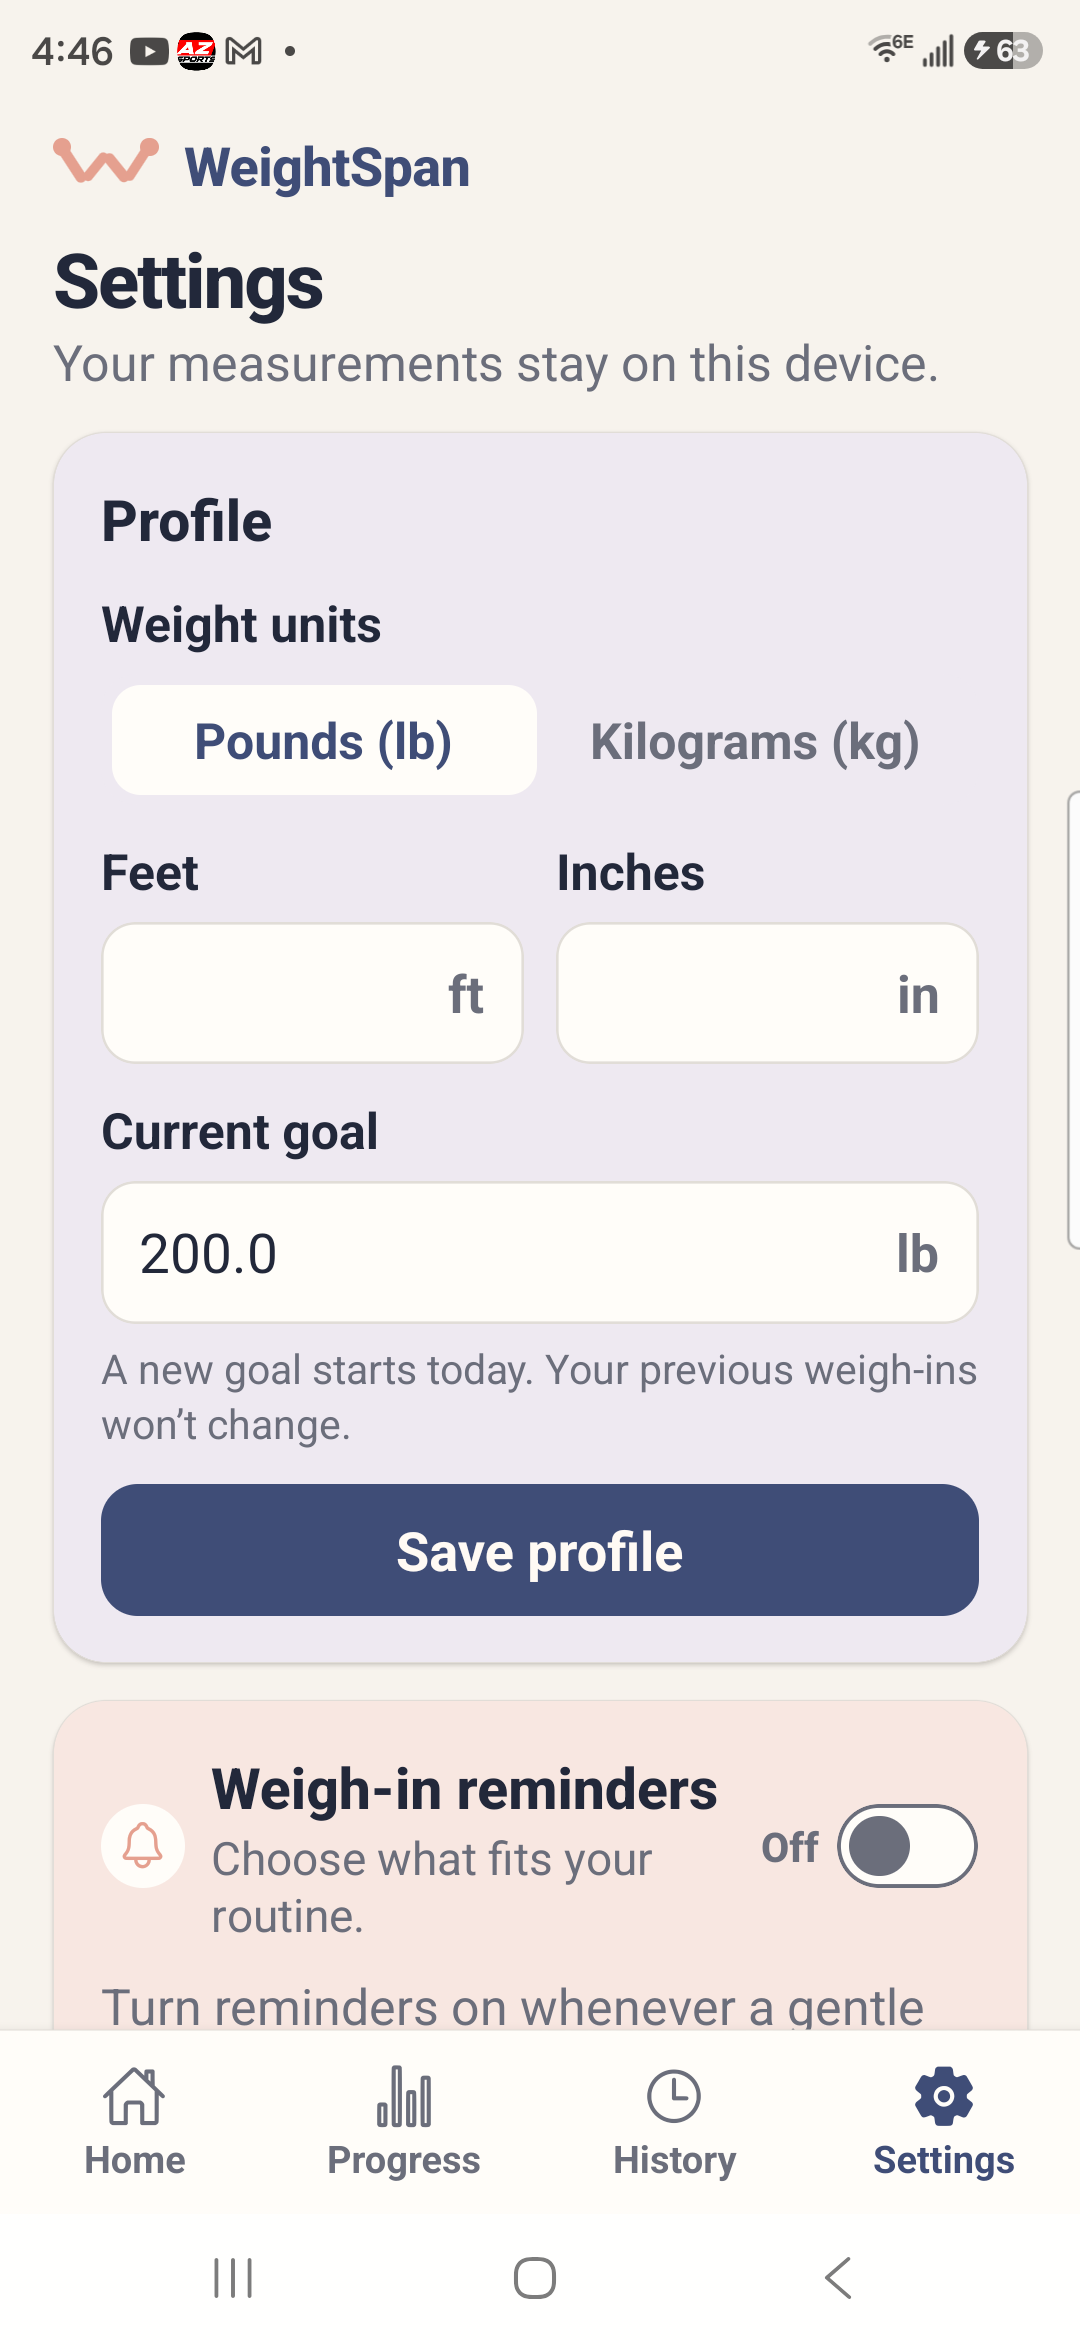
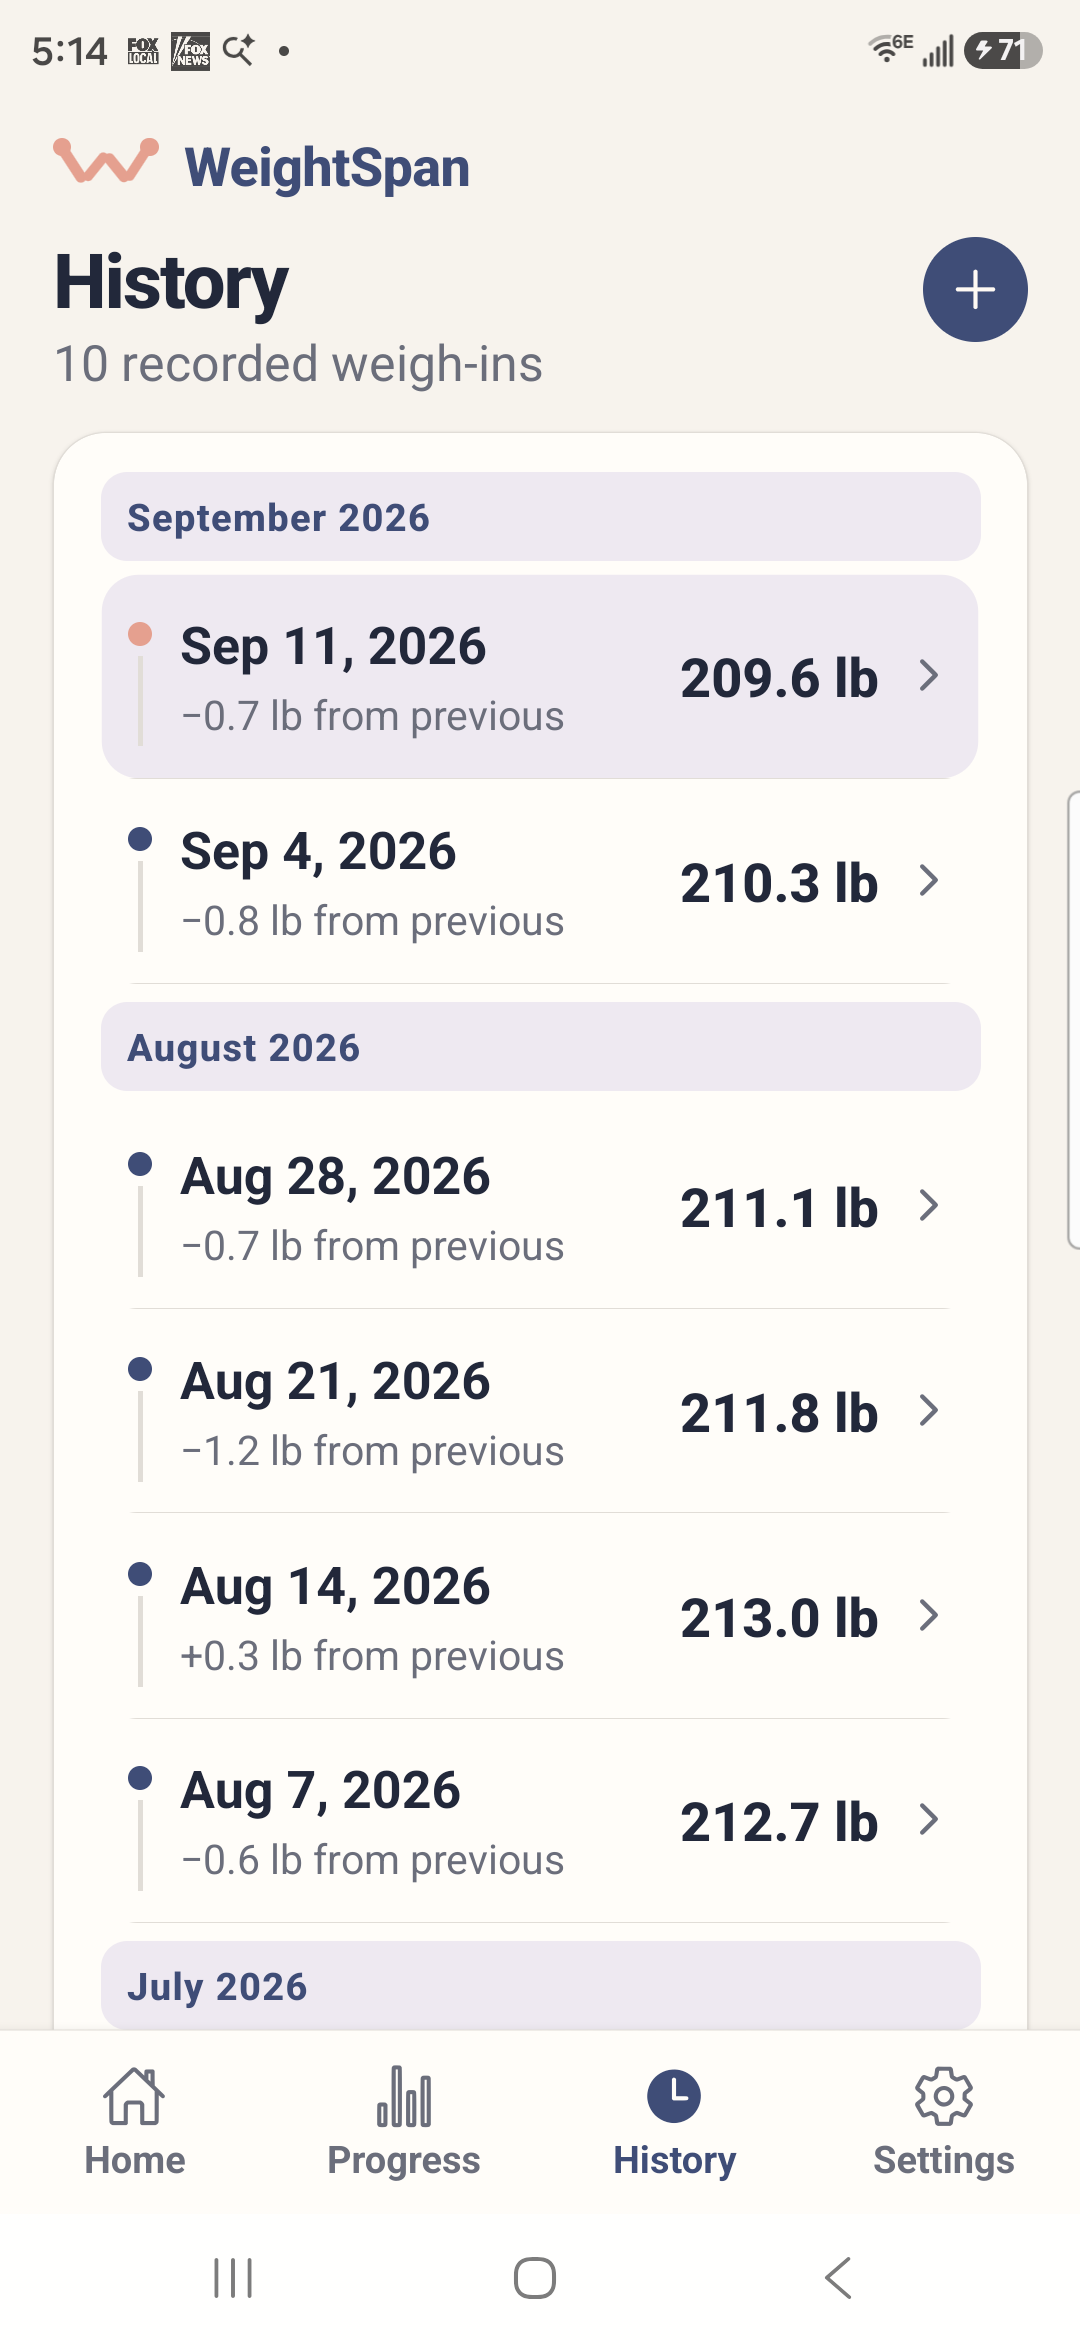
Add WeightSpan product screenshots

diff --git a/products.html b/products.html
@@ -81,18 +81,10 @@
     </div>
     <a class="btn btn-primary" href="weightspan.html">Explore WeightSpan</a>
   </div>
-  <div class="weightspan-visual" role="img" aria-label="Conceptual illustration of a gentle progress trend; not an actual WeightSpan app screenshot">
-    <div class="weightspan-concept-label">Concept illustration</div>
-    <div class="weightspan-orbit weightspan-orbit-large" aria-hidden="true"></div>
-    <div class="weightspan-orbit weightspan-orbit-small" aria-hidden="true"></div>
-    <div class="weightspan-chart" aria-hidden="true">
-      <div class="weightspan-chart-line"></div>
-      <span class="weightspan-chart-point point-one"></span>
-      <span class="weightspan-chart-point point-two"></span>
-      <span class="weightspan-chart-point point-three"></span>
-      <span class="weightspan-chart-point point-four"></span>
+  <div class="product-visual repguide-showcase" aria-label="WeightSpan home screen with sample data">
+    <div class="repguide-phone repguide-phone-center">
+      <img src="assets/weightspan-home.png" alt="WeightSpan home screen with sample data" width="1080" height="2340">
     </div>
-    <div class="weightspan-visual-copy"><span>Small check-ins</span><strong>A clearer view over time.</strong></div>
   </div>
 </div></section>
 <section class="section portfolio-section">
